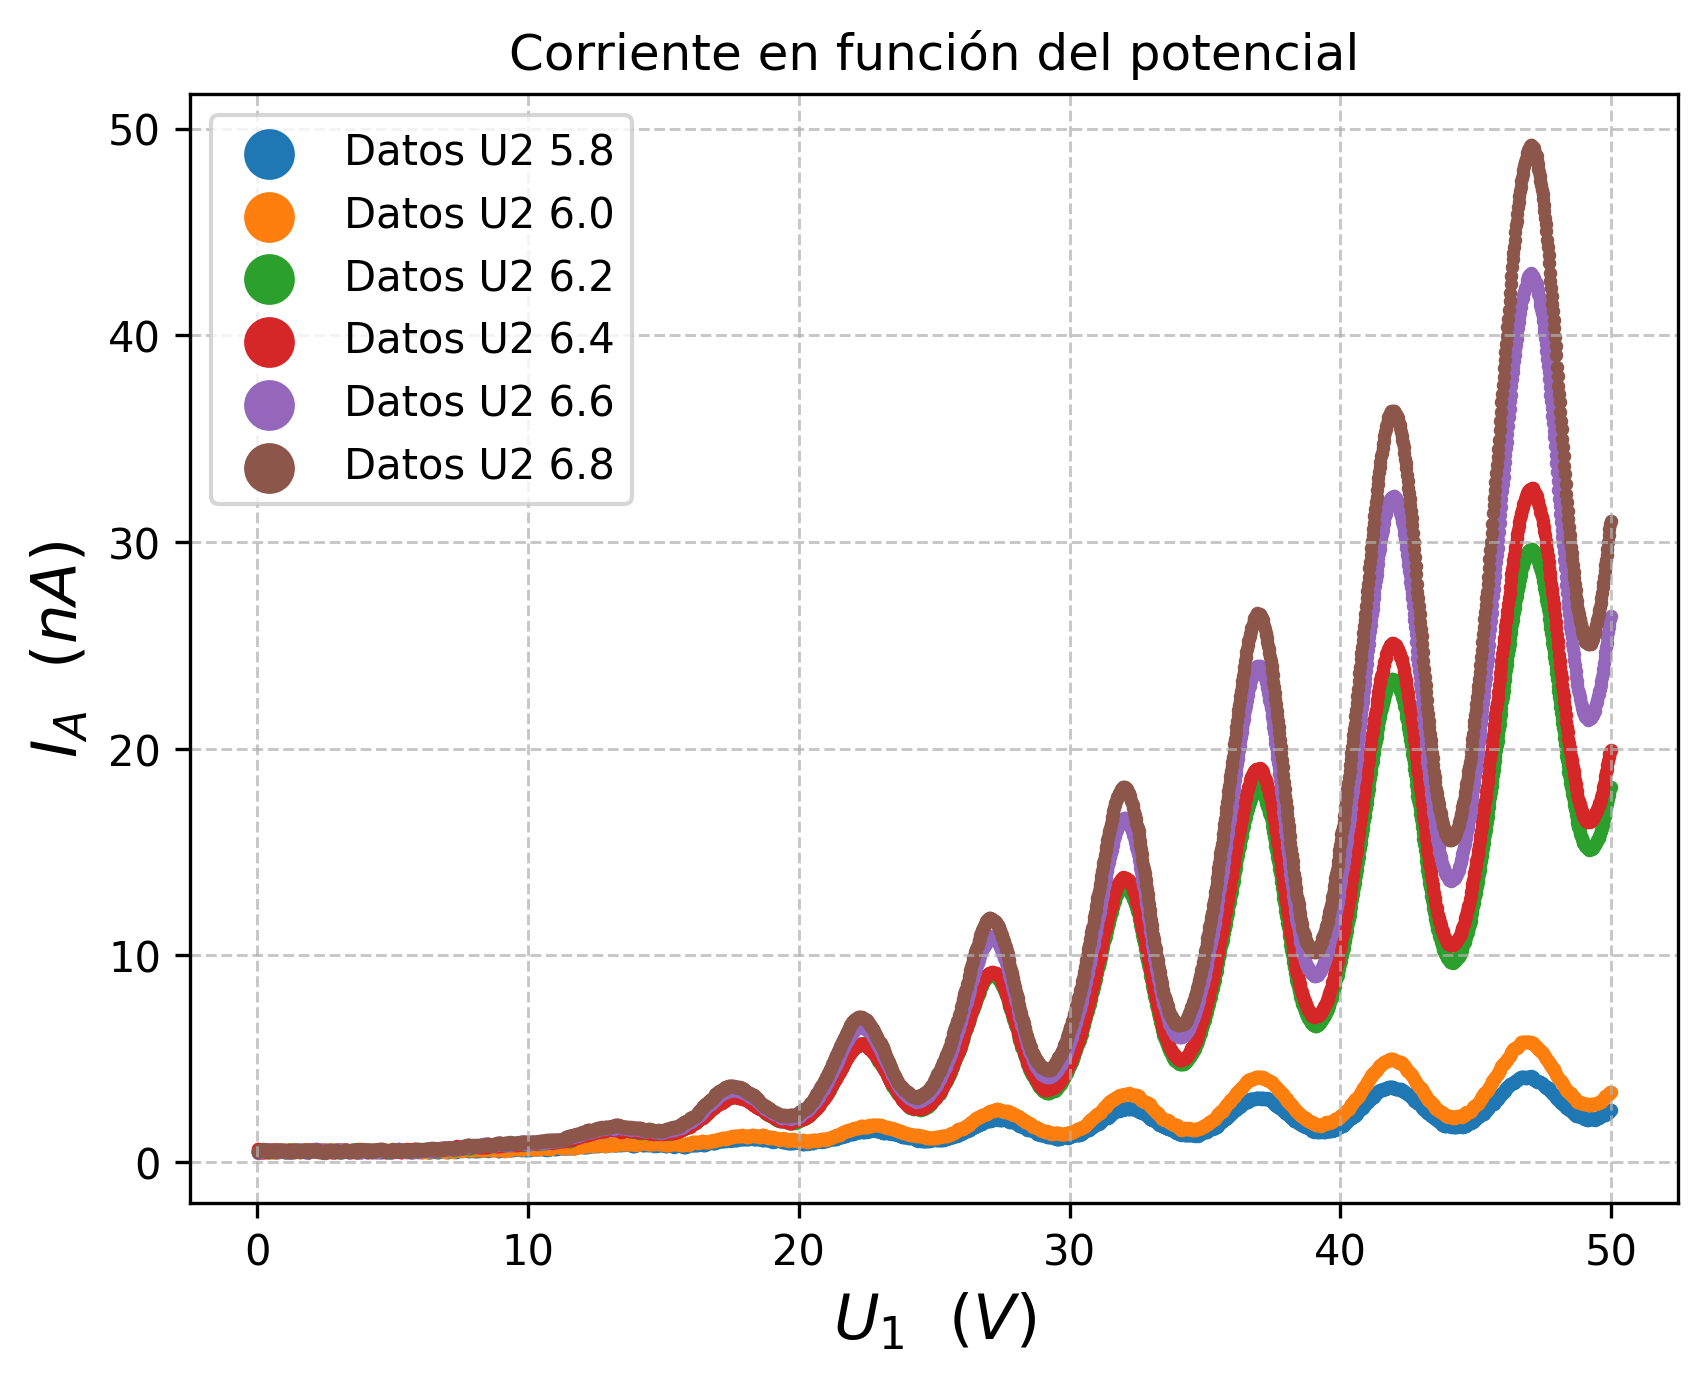
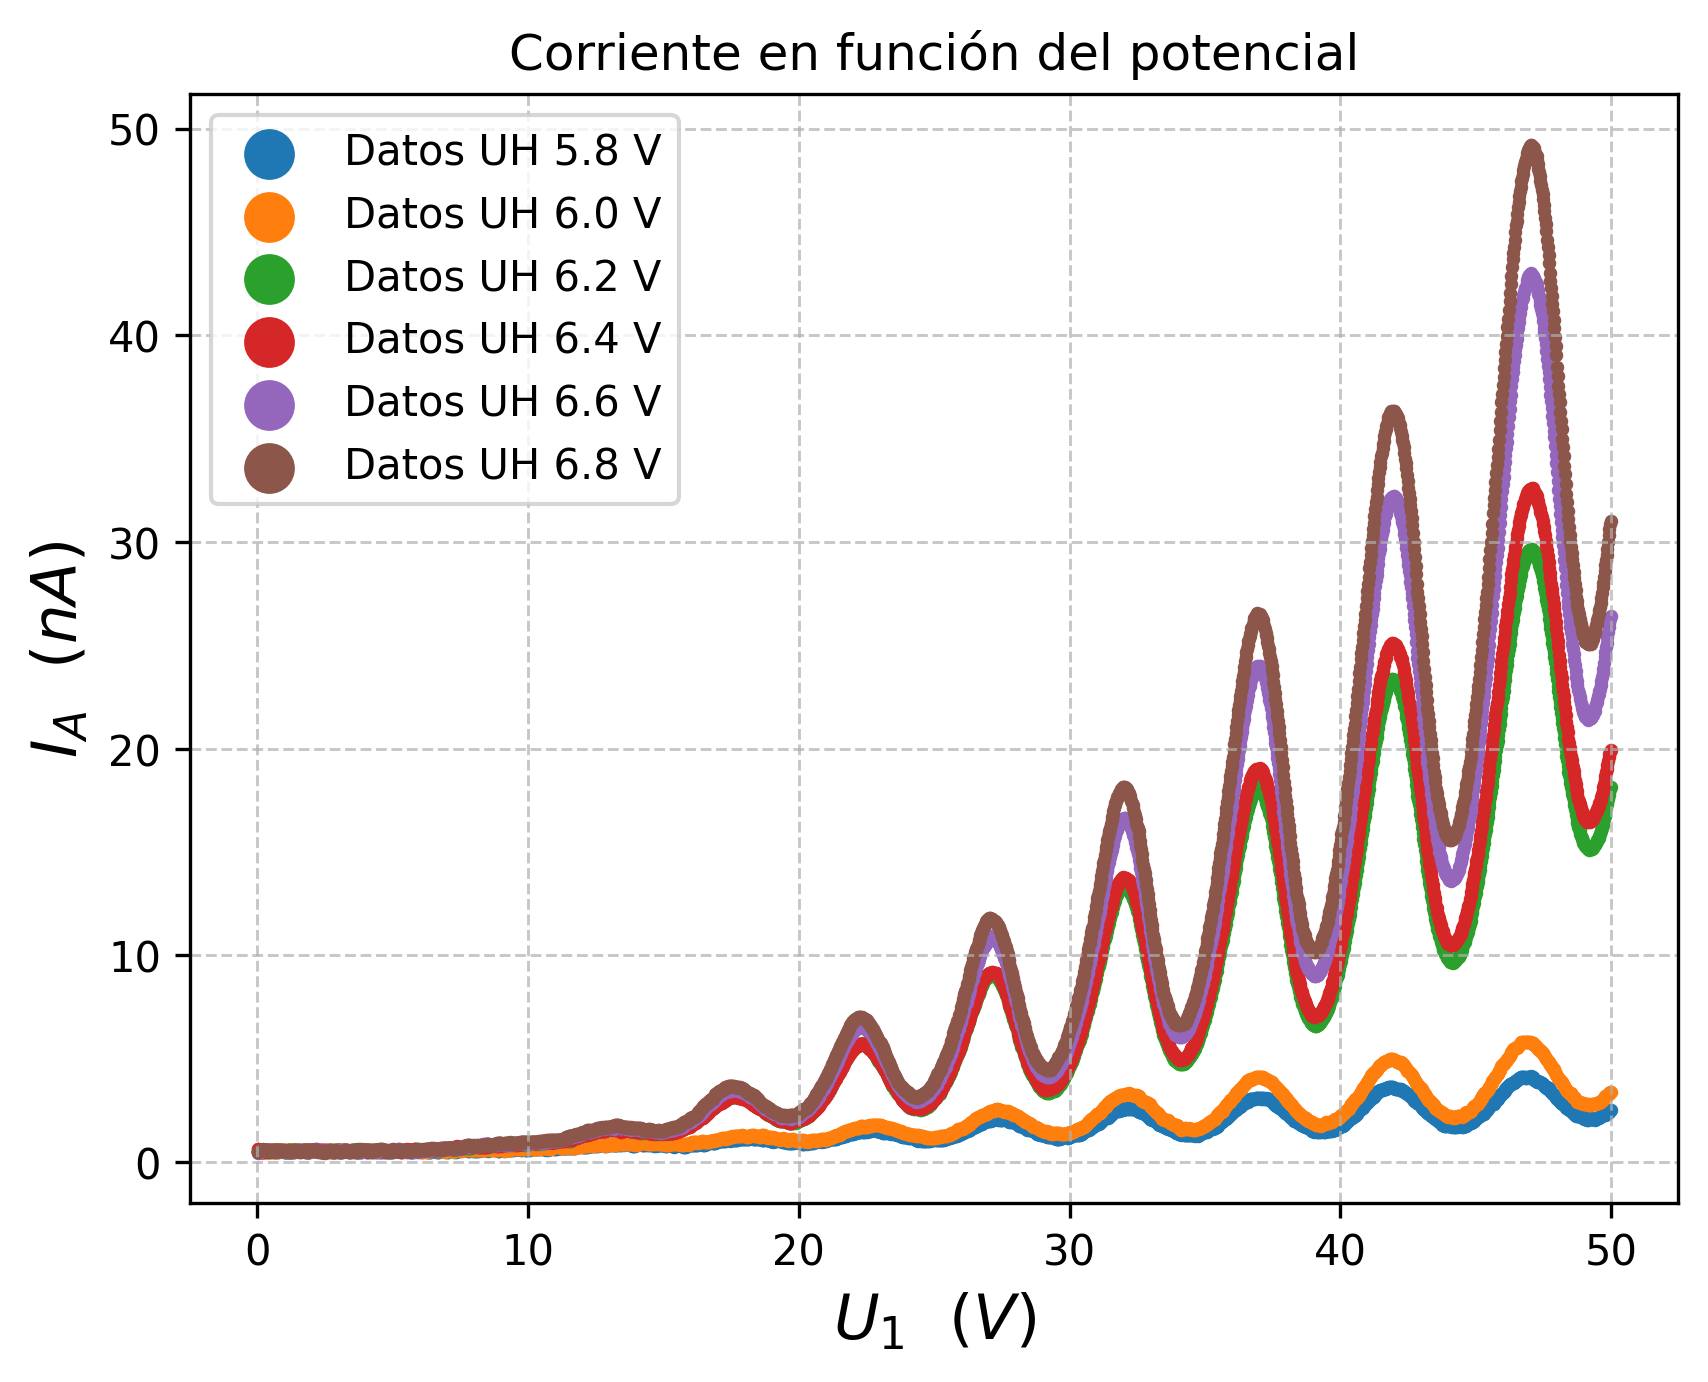
no mas de franck hertzzzzz

Changed region(s): [[0.2793, 0.0622, 0.4034, 0.3734]]

diff --git a/Franck-Hertz/Actividad2/Actividad_2.py b/Franck-Hertz/Actividad2/Actividad_2.py
@@ -11,25 +11,22 @@ Spath = 'Franck-Hertz\\Actividad2\\Datos\\Tconstante_'
 
 def ajuste_minimos_cuadrados(x, y):
     n = len(x)
+    Sx = np.sum(x)
+    Sy = np.sum(y)
+    Sxx = np.sum(x**2)
+    Sxy = np.sum(x * y)
     
-    sum_x = np.sum(x)
-    sum_y = np.sum(y)
-    sum_x2 = np.sum(x**2)
-    sum_xy = np.sum(x * y)
+    m = (n * Sxy - Sx * Sy) / (n * Sxx - Sx**2)
+    b = (Sy * Sxx - Sx * Sxy) / (n * Sxx - Sx**2)
     
-    m = (n * sum_xy - sum_x * sum_y) / (n * sum_x2 - sum_x**2)
+    y_pred = m * x + b
+    residuals = y - y_pred
+    Sr = np.sum(residuals**2)
     
-    b = (sum_y * sum_x2 - sum_x * sum_xy) / (n * sum_x2 - sum_x**2)
+    dm = np.sqrt((n * Sr) / ((n - 2) * (n * Sxx - Sx**2)))
+    db = np.sqrt((Sr / (n * (n - 2))) * (1 + (Sx**2 / (n * Sxx - Sx**2))))
     
-    y_est = m * x + b
-    residuals = y - y_est
-    sum_res2 = np.sum(residuals**2)
-    
-    delta_m = np.sqrt((n * sum_res2) / ((n - 2) * (n * sum_x2 - sum_x**2)))
-    
-    delta_b = np.sqrt((1 + (sum_x**2) / (n * sum_x2 - sum_x**2)) * sum_res2 / (n * (n - 2)))
-    
-    return m, delta_m, b, delta_b
+    return m, dm, b, db, residuals
 
 def linealfunc(x,a,b):
     return a*x + b
@@ -84,19 +81,30 @@ datos = {
     '180°C': np.array([4.67, 4.91, 4.95, 4.96, 5.02, 5.06])
 }
 
-plt.figure(figsize=(7, 5.5))
+marcadores = ['o', 's', 'D', '^']
+colores = ['tab:blue', 'tab:orange', 'tab:green', 'tab:red']
 
-for label, y in datos.items():
-    m, sigm, b, sifgb = ajuste_minimos_cuadrados(n,y)
-    _x = np.linspace(0,11,3)
-    _y = linealfunc(_x,m,b)
-    plt.plot(_x,_y)
-    plt.scatter(n, y, marker='o', label=f'T = {label}')
-    print(m,b)
+fig, (ax1, ax2) = plt.subplots(2, 1, figsize=(7, 5.5), sharex=True, gridspec_kw={'hspace': 0, 'height_ratios': [3, 1]})
+x_fit = np.linspace(0, 10.5, 100)
 
-plt.xlabel(r'$n$', fontsize=14)
-plt.ylabel(r'$\Delta E_n$ (eV)', fontsize=14)
-plt.title('Energía vs número cuántico n', fontsize=15)
-plt.grid(True, linestyle='--', alpha=0.6)
-plt.legend()
-plt.show()
+for i, (label, y) in enumerate(datos.items()):
+    m, dm, b, db, residuals = ajuste_minimos_cuadrados(n, y)
+    y_fit = linealfunc(x_fit, m, b)
+
+    ax1.plot(x_fit, y_fit, color=colores[i])
+    ax1.scatter(n, y, label=rf'{label}: $m={m:.2f} \pm {dm:.2f}$, $b={b:.1f} \pm {db:.1f}$',
+                marker=marcadores[i], color=colores[i])
+    
+    ax2.scatter(n, residuals, color=colores[i], marker=marcadores[i], label=label)
+
+ax1.set_ylabel(rf'$\Delta E_n$ (eV)', fontsize=13)
+ax1.set_title('Ajuste lineal de $\Delta E_n$ vs $n$', fontsize=14)
+ax1.grid(True, linestyle='--', alpha=0.6)
+ax1.legend(fontsize=8)
+
+ax2.axhline(0, color='black', linestyle='--', linewidth=1)
+ax2.set_xlabel(r'$n$', fontsize=13)
+ax2.set_ylabel('Residuales', fontsize=11)
+ax2.grid(True, linestyle='--', alpha=0.6)
+
+plt.savefig('Franck-Hertz/Actividad2/ajusteminimos.png', dpi=300, bbox_inches='tight')

diff --git a/Franck-Hertz/Actividad2/Actividad23.py b/Franck-Hertz/Actividad2/Actividad23.py
@@ -24,7 +24,7 @@ for i in range(6):
     x,y = read_data(path)
     xfil, yfil = zip(*[(xi, yi) for xi,yi in zip(x,y) if xi < 50])
     xfil, yfil = np.array(list(xfil)), np.array(list(yfil))
-    scatter = plt.scatter(xfil, yfil, label=f'Datos U2 {(58+2*i)/10}', s=5)
+    scatter = plt.scatter(xfil, yfil, label=f'Datos UH {(58+2*i)/10} V', s=5)
     han.append(scatter)
 
 plt.legend(handles=han, scatterpoints=1, markerscale=5)

diff --git a/Franck-Hertz/Actividad2/Actividad22.py b/Franck-Hertz/Actividad2/Actividad22.py
@@ -25,7 +25,7 @@ for i in range(6):
     if i != 2:
         path = Spath + f'{10+2*i}'
         x,y = read_data(path)
-        scatter = plt.scatter(x, y, label=f'Datos U2 {(10+2*i)/10}', s=5)
+        scatter = plt.scatter(x, y, label=f'Datos U2 {(10+2*i)/10} V', s=5)
         han.append(scatter)
     
 plt.legend(handles=han, scatterpoints=1, markerscale=5)
